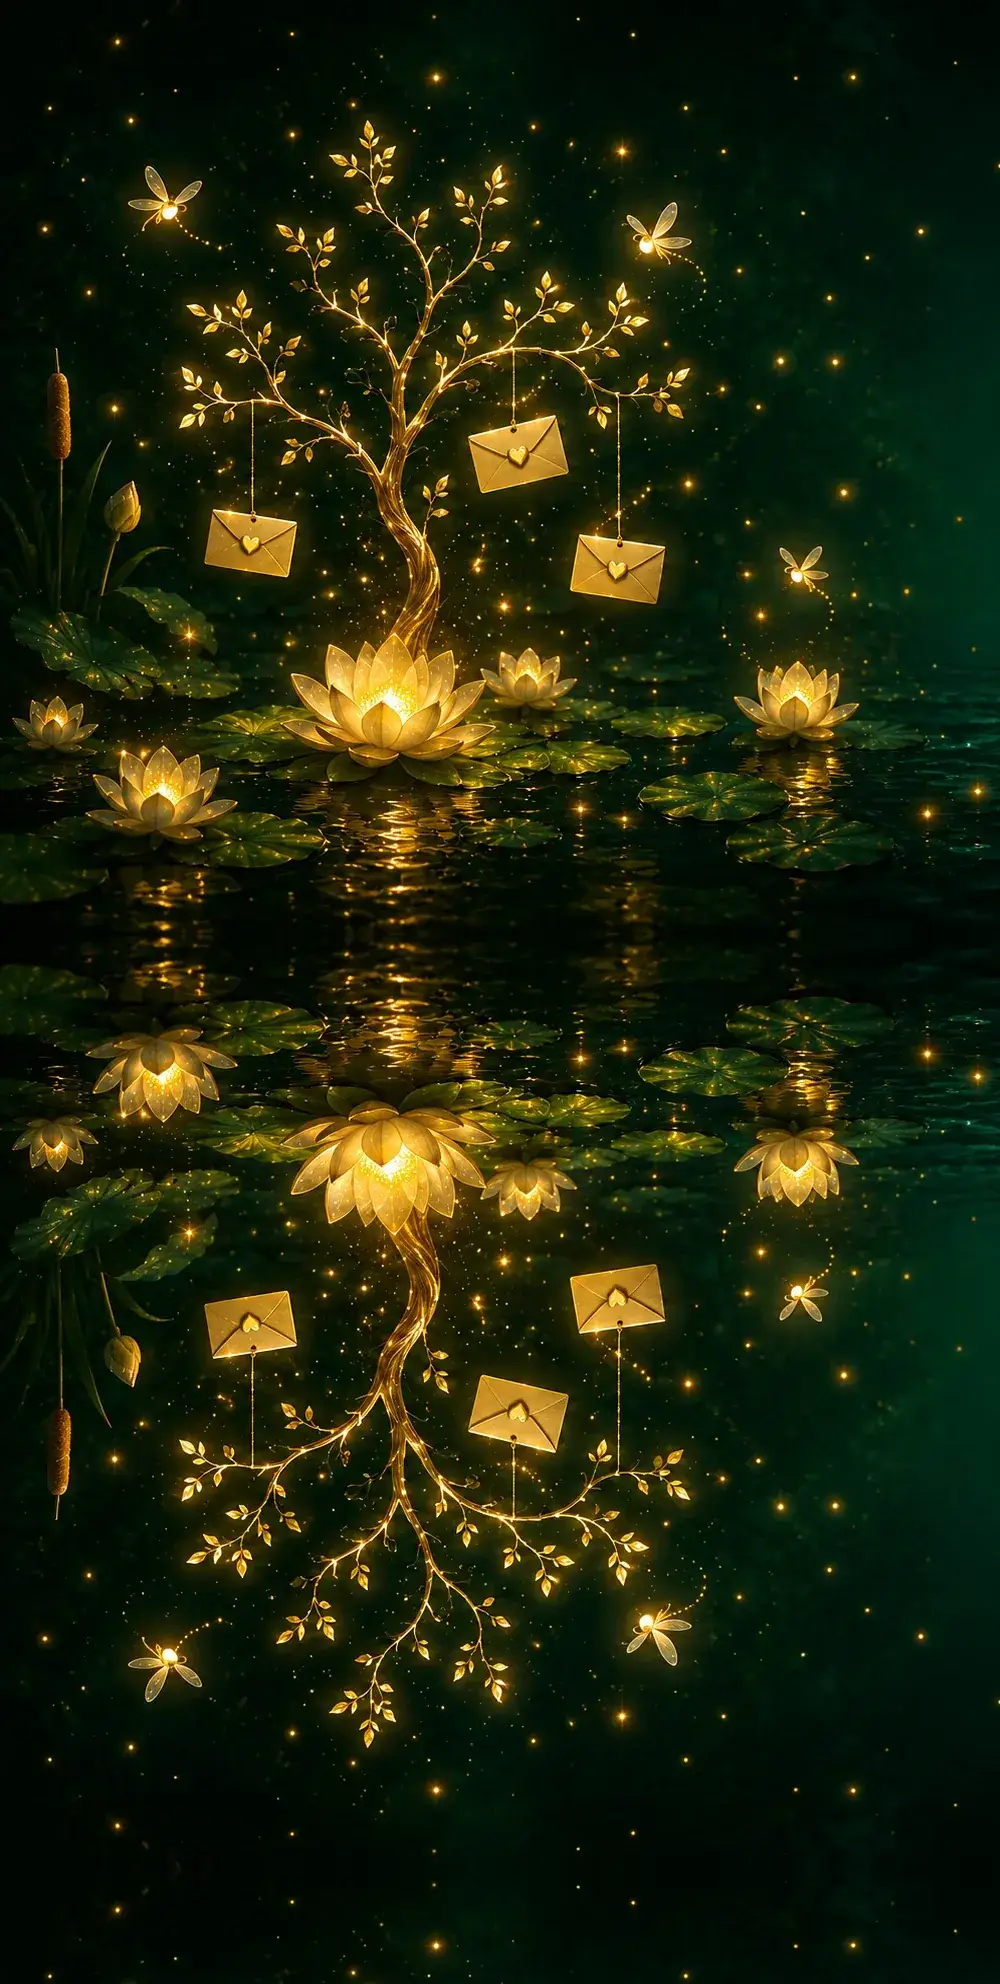
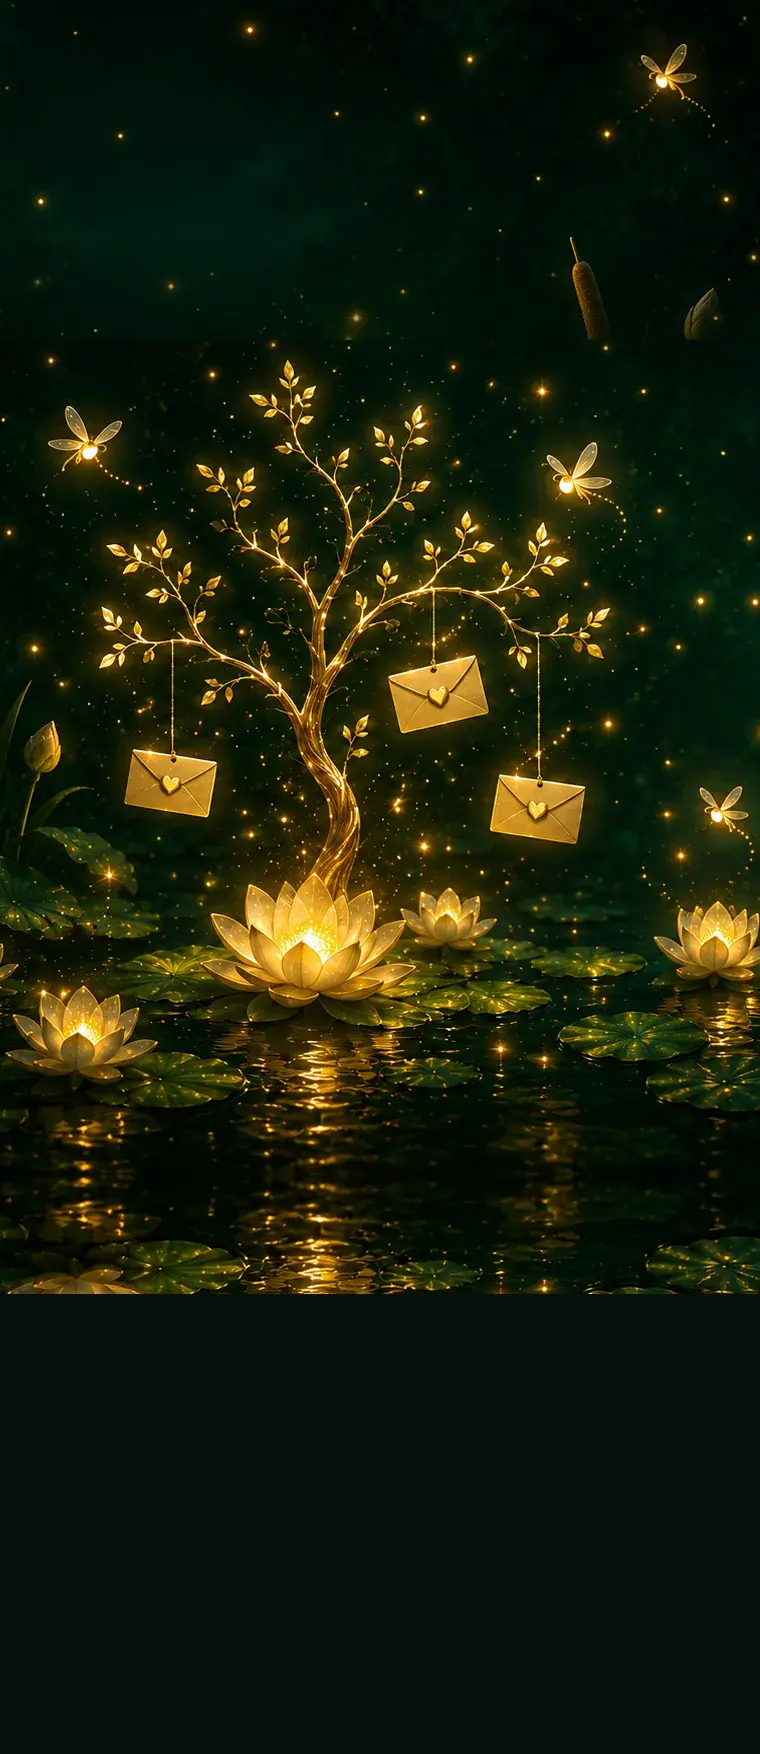
Movil Buenos Deseos: composicion centrada tipo referencia
Rehecho segun referencia del usuario: titulo arriba, arbol de los deseos
centrado como heroe (imagen vertical dedicada con cielo arriba y agua oscura
abajo), texto centrado abajo. Layout con margin-top:auto para dejar el arbol
visible en el centro. Bump css?v=48 / data-bg-mobile ?v=2.

diff --git a/daniela-xv.css b/daniela-xv.css
@@ -1963,42 +1963,38 @@ body {
   text-shadow: 0 2px 10px rgba(0,0,0,0.45);
 }
 
-/* Móvil: composición asimétrica (Opción 1). Imagen vertical con el árbol de
-   los deseos reflejado en el estanque (data-bg-mobile); el texto se alinea a
-   la derecha sobre la zona oscura, no centrado en bloque. */
+/* Móvil: composición tipo referencia — título arriba, árbol de los deseos como
+   héroe en el centro, texto centrado abajo sobre el agua oscura (data-bg-mobile). */
 @media (max-width: 768px) {
-  #scene-gifts { justify-content: flex-end; align-items: center; }
-  #gifts-bg { background-size: cover; background-position: 26% top; }
+  #scene-gifts { justify-content: center; align-items: stretch; }
+  #gifts-bg { background-size: cover; background-position: center top; }
   #gifts-overlay {
     background:
-      linear-gradient(to left,
-        rgba(4,12,8,0.97) 0%, rgba(4,12,8,0.92) 36%, rgba(4,12,8,0.55) 56%, rgba(4,12,8,0.12) 74%, transparent 88%),
       linear-gradient(to bottom,
-        rgba(4,12,8,0.5) 0%, transparent 24%, transparent 72%, rgba(4,12,8,0.6) 100%);
+        rgba(5,15,10,0.55) 0%, rgba(5,15,10,0.18) 12%, transparent 24%,
+        transparent 52%, rgba(5,14,9,0.55) 66%, rgba(5,14,9,0.86) 80%, rgba(5,14,9,0.93) 100%);
   }
   #gifts-content {
-    width: min(62vw, 350px);
-    margin-right: clamp(0.8rem, 4vw, 1.6rem);
-    text-align: right; align-items: flex-end;
-    /* Halo oscuro suave detrás del texto (sin caja dura) para que no se pierda */
-    padding: 1.4rem 1.1rem 1.6rem 1.8rem;
-    background: radial-gradient(ellipse 130% 96% at 78% 50%,
-      rgba(4,12,8,0.86) 0%, rgba(4,12,8,0.66) 48%, rgba(4,12,8,0.28) 72%, transparent 90%);
+    width: min(90vw, 460px); margin: 0 auto;
+    height: 100%; padding: 5vh 0 13vh;
+    text-align: center; align-items: center;
+    justify-content: flex-start;
   }
-  #gifts-title { align-items: flex-end; }
+  .gifts-lotus { display: none; }                 /* el árbol ya es el motivo */
+  /* empuja el bloque de texto al tercio inferior, dejando el árbol visible en medio.
+     El primer .gifts-div es el 2º <div> hijo (el 1º es .gifts-eyebrow). */
+  #gifts-content > .gifts-div:nth-of-type(2) { margin-top: auto; }
   .gifts-title-l1, .gifts-title-l2 {
-    filter: drop-shadow(0 0 24px rgba(233,196,106,0.3)) drop-shadow(0 2px 6px rgba(0,0,0,0.9));
+    filter: drop-shadow(0 0 24px rgba(233,196,106,0.3)) drop-shadow(0 2px 8px rgba(0,0,0,0.9));
   }
-  .gifts-div { width: 100%; }
   #gifts-message, .gifts-sub-text {
-    max-width: 100%;
     color: rgba(248,249,250,0.95);
     text-shadow: 0 2px 14px rgba(0,0,0,1), 0 0 6px rgba(0,0,0,0.95), 0 0 22px rgba(0,0,0,0.7);
   }
   .gifts-eyebrow, .gifts-subtitle, .gifts-final {
     text-shadow: 0 2px 12px rgba(0,0,0,1), 0 0 8px rgba(0,0,0,0.9);
   }
-  .gifts-final { color: rgba(233,196,106,0.78); }
+  .gifts-final { color: rgba(233,196,106,0.8); }
 }
 
 /* ══════════════════════════════════════════════════════

diff --git a/daniela-xv.html b/daniela-xv.html
@@ -7,7 +7,7 @@
   <link rel="preconnect" href="https://fonts.googleapis.com">
   <link href="https://fonts.googleapis.com/css2?family=Cinzel+Decorative:wght@400;700;900&family=Cormorant+Garamond:ital,wght@0,300;0,400;0,500;1,300;1,400&family=Cinzel:wght@400;600;900&display=swap" rel="stylesheet">
 
-  <link rel="stylesheet" href="daniela-xv.css?v=47">
+  <link rel="stylesheet" href="daniela-xv.css?v=48">
 </head>
 <body>
 
@@ -723,7 +723,7 @@
   <div class="scene" id="scene-gifts">
 
     <!-- Fondo (árbol con sobres, lotos, libélulas) -->
-    <div id="gifts-bg" data-bg="fondo_lluvia_sobres.webp" data-bg-mobile="fondo_lluvia_sobres_movil.webp?v=1" data-scene="6"></div>
+    <div id="gifts-bg" data-bg="fondo_lluvia_sobres.webp" data-bg-mobile="fondo_lluvia_sobres_movil.webp?v=2" data-scene="6"></div>
     <div id="gifts-overlay"></div>
 
     <div id="gifts-content">
